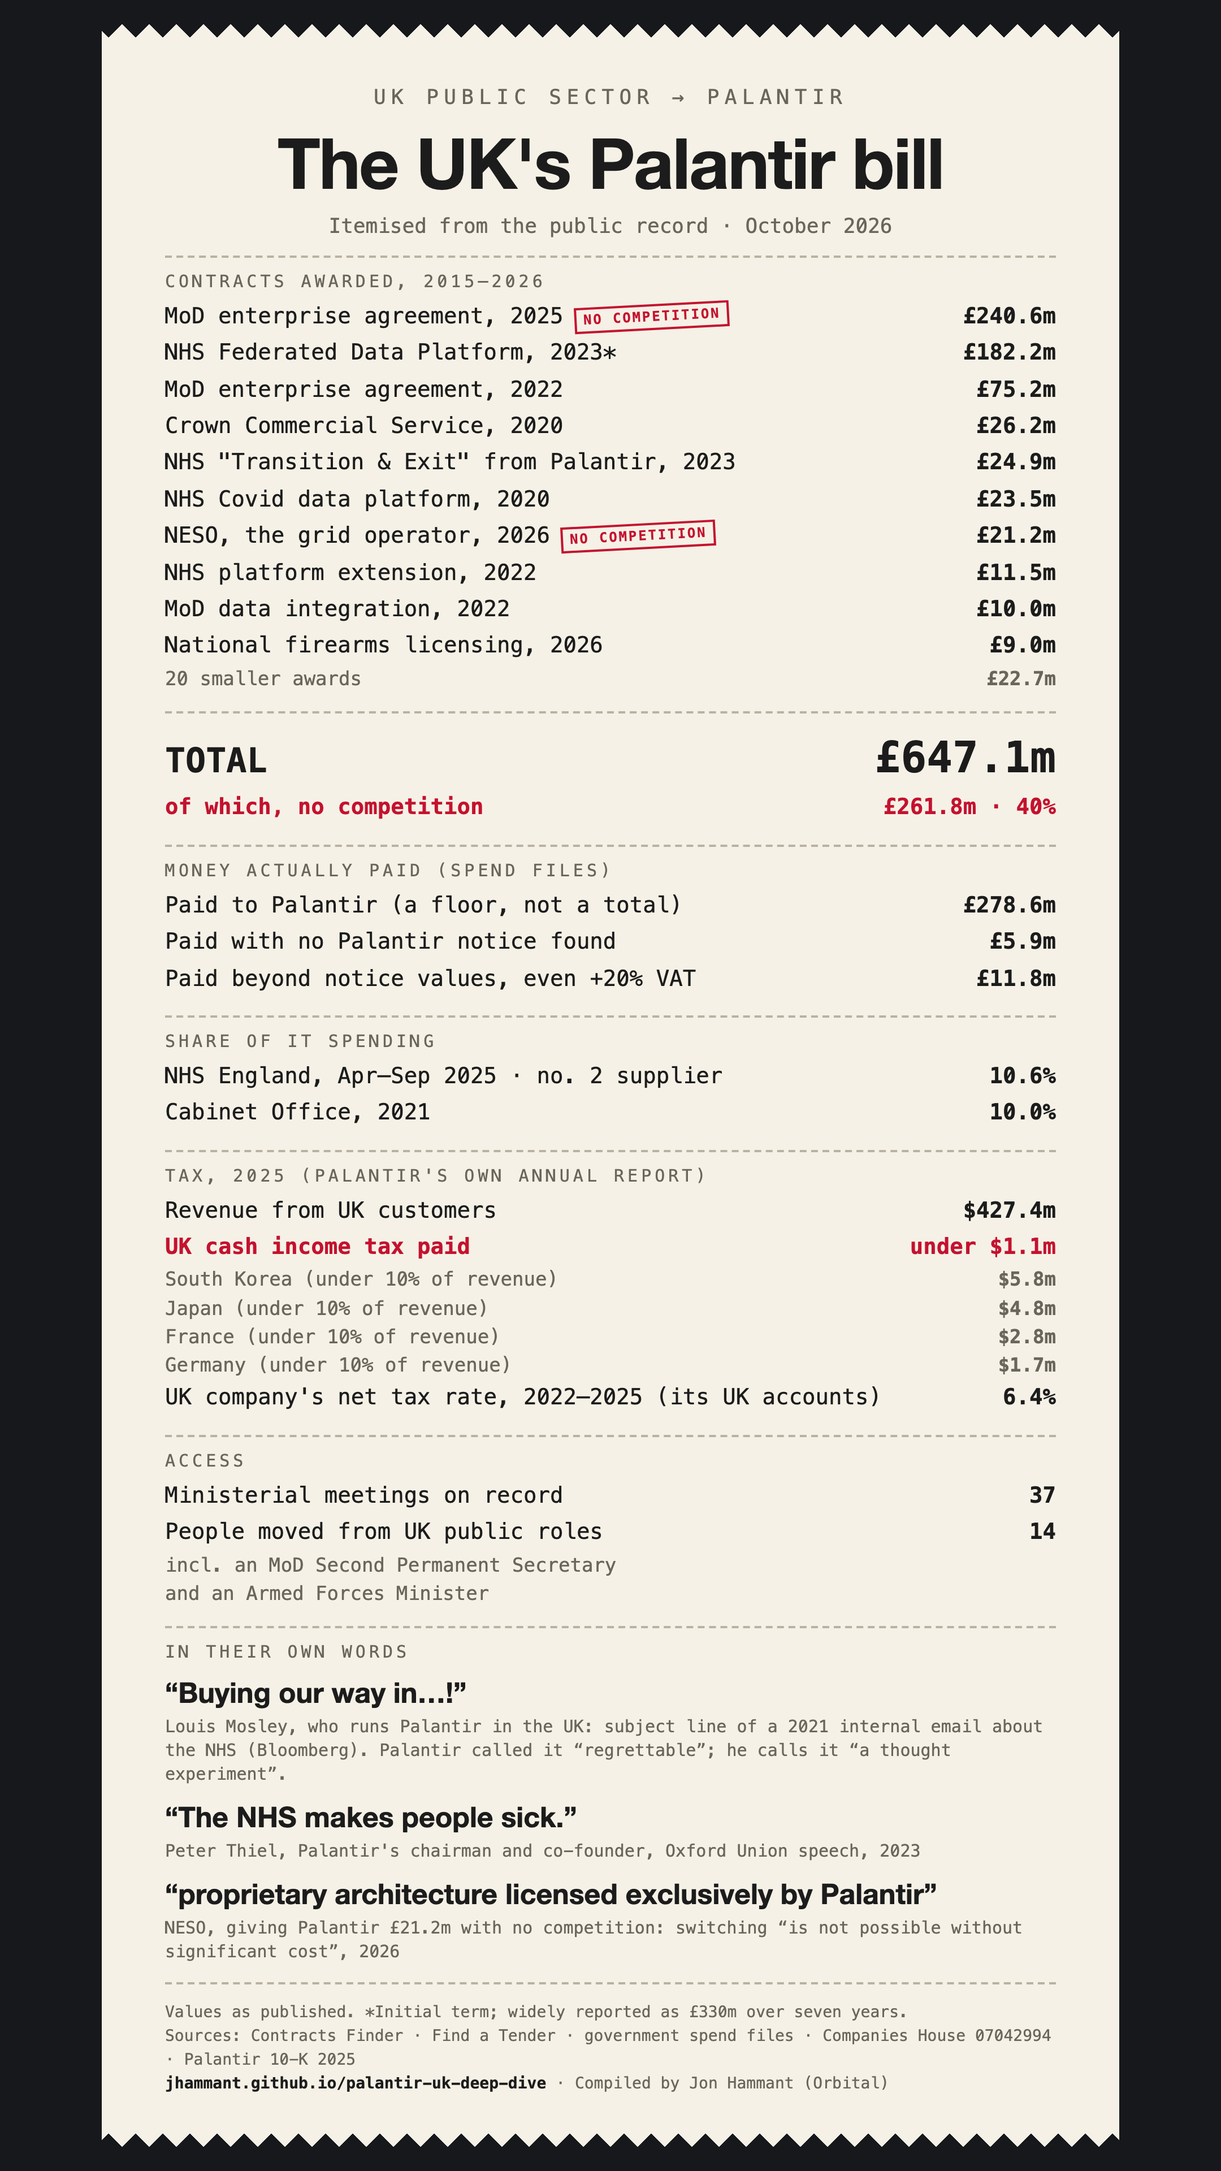
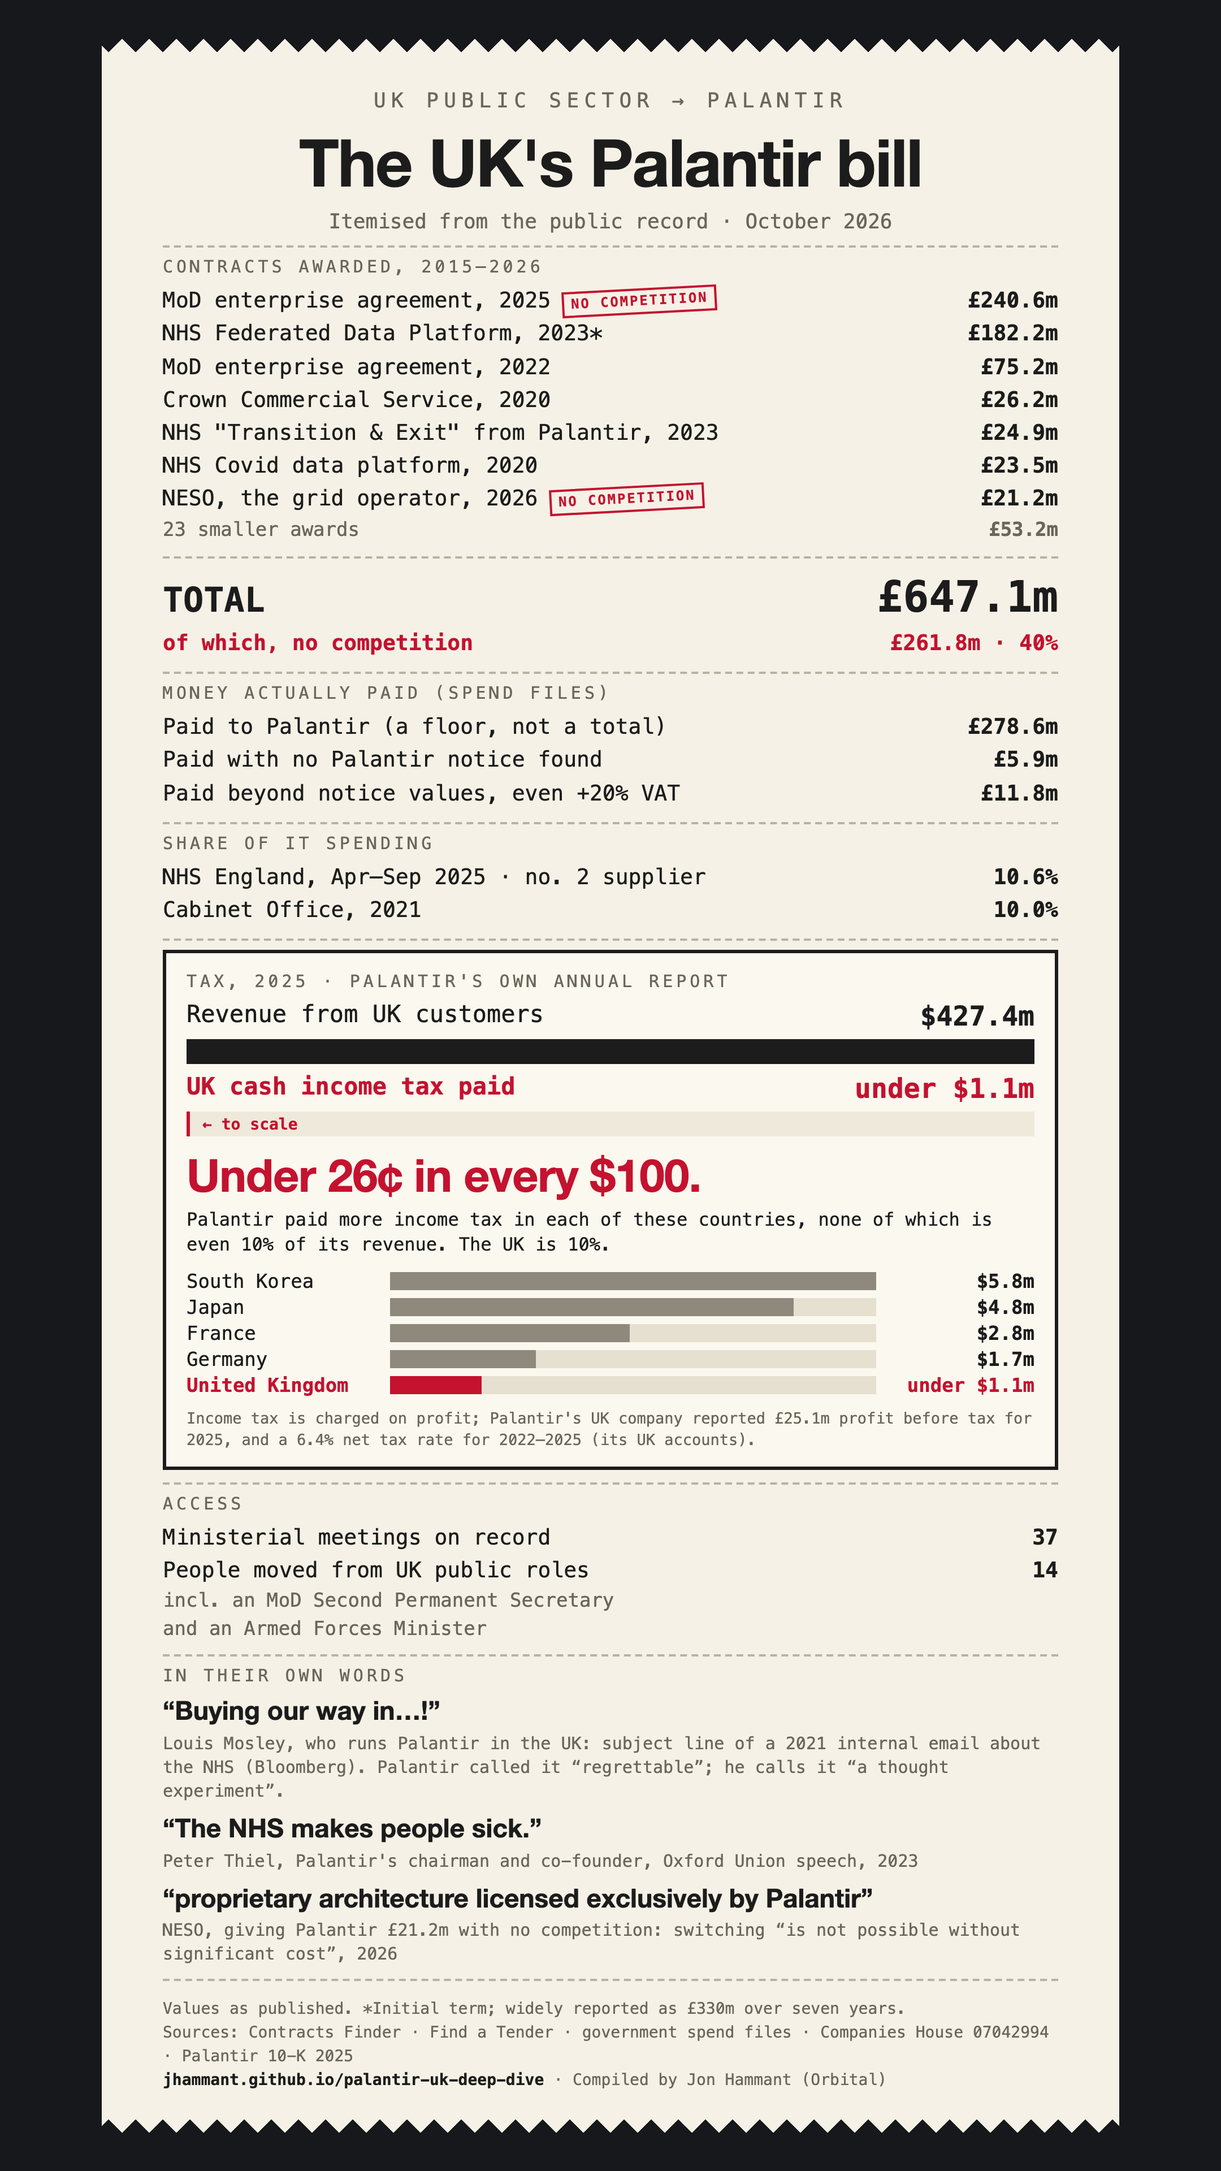
feat(img): show UK income tax against UK revenue to scale on the full receipt
Claude-Session: https://claude.ai/code/session_013hhDVR6watkhis7ndt2X1z

Changed region(s): [[0.0931, 0.0625, 0.9306, 1.0], [0.0931, 0.0, 0.9306, 0.0312]]

diff --git a/img/palantir-bill-full.html b/img/palantir-bill-full.html
@@ -3,24 +3,43 @@
 * { box-sizing:border-box; margin:0; padding:0; }
 html, body { width:1080px; height:1920px; }
 body { background:var(--bg); display:flex; align-items:center; justify-content:center; font-family:"SF Mono",Menlo,"DejaVu Sans Mono",monospace; color:var(--ink); }
-.receipt { width:900px; background:var(--paper); padding:54px 56px 46px; box-shadow:0 30px 80px rgba(0,0,0,.55);
+.receipt { width:900px; background:var(--paper); padding:44px 54px 36px; box-shadow:0 30px 80px rgba(0,0,0,.55);
   -webkit-mask: conic-gradient(from -45deg at bottom, #0000, #000 1deg 89deg, #0000 90deg) bottom/24px 51% repeat-x,
                 conic-gradient(from 135deg at top, #0000, #000 1deg 89deg, #0000 90deg) top/24px 51% repeat-x; }
 .head { text-align:center; }
 .eyebrow { font-size:18px; letter-spacing:.26em; color:var(--muted); }
-h1 { font-family:"Helvetica Neue",Helvetica,Arial,sans-serif; font-weight:800; font-size:62px; letter-spacing:-.02em; margin:10px 0 8px; }
+h1 { font-family:"Helvetica Neue",Helvetica,Arial,sans-serif; font-weight:800; font-size:58px; letter-spacing:-.02em; margin:8px 0 6px; }
 .sub { font-size:18px; color:var(--muted); }
-.rule { border-top:2px dashed var(--rule); margin:16px 0 12px; }
+.rule { border-top:2px dashed var(--rule); margin:11px 0 8px; }
 .section { font-size:15px; letter-spacing:.2em; color:var(--muted); margin:6px 0 6px; }
-.row { display:grid; grid-template-columns:1fr auto; gap:14px; font-size:19.5px; line-height:1.25; padding:4px 0; align-items:baseline; }
+.row { display:grid; grid-template-columns:1fr auto; gap:14px; font-size:19px; line-height:1.22; padding:3px 0; align-items:baseline; }
 .row .amt { font-weight:700; font-variant-numeric:tabular-nums; white-space:nowrap; }
 .row.small { color:var(--muted); font-size:17px; padding:2px 0; }
 .row.total { font-size:30px; font-weight:800; }
 .row.total .amt { font-size:38px; }
 .row.hitline .amt, .row.hitline .what { color:var(--red); font-weight:700; }
 .tag { display:inline-block; margin-left:10px; vertical-align:2px; border:2px solid var(--red); color:var(--red); font-size:12px; font-weight:800; letter-spacing:.12em; padding:2px 6px; transform:rotate(-3deg); }
-.q { margin:12px 0; }
-.qt { font-family:"Helvetica Neue",Helvetica,Arial,sans-serif; font-size:25px; font-weight:800; line-height:1.2; }
+.taxbox { border:3px solid var(--ink); padding:16px 18px 14px; margin:4px 0 6px; background:#fbf8ef; }
+.taxbox .section { margin-top:0; }
+.scale { display:grid; grid-template-columns:1fr auto; font-size:21px; margin-top:8px; }
+.scale .val { font-weight:800; font-size:24px; }
+.scale.hit .lbl, .scale.hit .val { color:var(--red); font-weight:800; }
+.bar { height:22px; background:#e6e0d1; margin:6px 0 2px; position:relative; }
+.bar span { display:block; height:100%; background:var(--ink); }
+.bar.tax { background:#efe9db; }
+.bar.tax span { background:var(--red); }
+.bar em { position:absolute; left:14px; top:0; font-style:normal; font-size:14px; color:var(--red); line-height:22px; font-weight:700; }
+.big { font-family:"Helvetica Neue",Helvetica,Arial,sans-serif; font-size:40px; font-weight:800; color:var(--red); margin:10px 0 2px; letter-spacing:-.01em; }
+.sub2 { font-size:16px; color:var(--ink); line-height:1.4; margin:4px 0 10px; }
+.cbar { display:grid; grid-template-columns:170px 1fr 130px; gap:10px; align-items:center; font-size:17px; margin:3px 0; }
+.cbar .ct { height:16px; background:#e6e0d1; }
+.cbar .cf { display:block; height:100%; background:#8f897d; }
+.cbar .cv { text-align:right; font-weight:700; }
+.cbar.uk .cn, .cbar.uk .cv { color:var(--red); font-weight:800; }
+.cbar.uk .cf { background:var(--red); }
+.fine { font-size:13.5px; color:var(--muted); line-height:1.4; margin-top:10px; }
+.q { margin:8px 0; }
+.qt { font-family:"Helvetica Neue",Helvetica,Arial,sans-serif; font-size:23px; font-weight:800; line-height:1.2; }
 .qw { font-size:15px; color:var(--muted); line-height:1.4; margin-top:5px; }
 .foot { font-size:14px; color:var(--muted); line-height:1.5; margin-top:14px; }
 .foot b { color:var(--ink); }
@@ -29,7 +48,7 @@ h1 { font-family:"Helvetica Neue",Helvetica,Arial,sans-serif; font-weight:800; f
 <div class="rule"></div>
 
     <div class="section">CONTRACTS AWARDED, 2015–2026</div>
-    <div class="row "><span class="what">MoD enterprise agreement, 2025<span class="tag">NO COMPETITION</span></span><span class="amt">£240.6m</span></div><div class="row "><span class="what">NHS Federated Data Platform, 2023*</span><span class="amt">£182.2m</span></div><div class="row "><span class="what">MoD enterprise agreement, 2022</span><span class="amt">£75.2m</span></div><div class="row "><span class="what">Crown Commercial Service, 2020</span><span class="amt">£26.2m</span></div><div class="row "><span class="what">NHS &quot;Transition &amp; Exit&quot; from Palantir, 2023</span><span class="amt">£24.9m</span></div><div class="row "><span class="what">NHS Covid data platform, 2020</span><span class="amt">£23.5m</span></div><div class="row "><span class="what">NESO, the grid operator, 2026<span class="tag">NO COMPETITION</span></span><span class="amt">£21.2m</span></div><div class="row "><span class="what">NHS platform extension, 2022</span><span class="amt">£11.5m</span></div><div class="row "><span class="what">MoD data integration, 2022</span><span class="amt">£10.0m</span></div><div class="row "><span class="what">National firearms licensing, 2026</span><span class="amt">£9.0m</span></div><div class="row small"><span class="what">20 smaller awards</span><span class="amt">£22.7m</span></div>
+    <div class="row "><span class="what">MoD enterprise agreement, 2025<span class="tag">NO COMPETITION</span></span><span class="amt">£240.6m</span></div><div class="row "><span class="what">NHS Federated Data Platform, 2023*</span><span class="amt">£182.2m</span></div><div class="row "><span class="what">MoD enterprise agreement, 2022</span><span class="amt">£75.2m</span></div><div class="row "><span class="what">Crown Commercial Service, 2020</span><span class="amt">£26.2m</span></div><div class="row "><span class="what">NHS &quot;Transition &amp; Exit&quot; from Palantir, 2023</span><span class="amt">£24.9m</span></div><div class="row "><span class="what">NHS Covid data platform, 2020</span><span class="amt">£23.5m</span></div><div class="row "><span class="what">NESO, the grid operator, 2026<span class="tag">NO COMPETITION</span></span><span class="amt">£21.2m</span></div><div class="row small"><span class="what">23 smaller awards</span><span class="amt">£53.2m</span></div>
     <div class="rule"></div>
     <div class="row total"><span class="what">TOTAL</span><span class="amt">£647.1m</span></div>
     <div class="row hitline"><span class="what">  of which, no competition</span><span class="amt">£261.8m · 40%</span></div>
@@ -43,11 +62,18 @@ h1 { font-family:"Helvetica Neue",Helvetica,Arial,sans-serif; font-weight:800; f
     <div class="row "><span class="what">NHS England, Apr–Sep 2025 · no. 2 supplier</span><span class="amt">10.6%</span></div>
     <div class="row "><span class="what">Cabinet Office, 2021</span><span class="amt">10.0%</span></div>
     <div class="rule"></div>
-    <div class="section">TAX, 2025 (PALANTIR'S OWN ANNUAL REPORT)</div>
-    <div class="row "><span class="what">Revenue from UK customers</span><span class="amt">$427.4m</span></div>
-    <div class="row hitline"><span class="what">UK cash income tax paid</span><span class="amt">under $1.1m</span></div>
-    <div class="row small"><span class="what">  South Korea (under 10% of revenue)</span><span class="amt">$5.8m</span></div><div class="row small"><span class="what">  Japan (under 10% of revenue)</span><span class="amt">$4.8m</span></div><div class="row small"><span class="what">  France (under 10% of revenue)</span><span class="amt">$2.8m</span></div><div class="row small"><span class="what">  Germany (under 10% of revenue)</span><span class="amt">$1.7m</span></div>
-    <div class="row "><span class="what">UK company&#x27;s net tax rate, 2022–2025 (its UK accounts)</span><span class="amt">6.4%</span></div>
+    
+    <div class="taxbox">
+      <div class="section">TAX, 2025 · PALANTIR'S OWN ANNUAL REPORT</div>
+      <div class="scale"><span class="lbl">Revenue from UK customers</span><span class="val">$427.4m</span></div>
+      <div class="bar"><span style="width:100%"></span></div>
+      <div class="scale hit"><span class="lbl">UK cash income tax paid</span><span class="val">under $1.1m</span></div>
+      <div class="bar tax"><span style="width:0.40%"></span><em>← to scale</em></div>
+      <div class="big">Under 26¢ in every $100.</div>
+      <div class="sub2">Palantir paid more income tax in each of these countries, none of which is even 10% of its revenue. The UK is 10%.</div>
+      <div class="cbar"><span class="cn">South Korea</span><span class="ct"><span class="cf" style="width:100.0%"></span></span><span class="cv">$5.8m</span></div><div class="cbar"><span class="cn">Japan</span><span class="ct"><span class="cf" style="width:83.1%"></span></span><span class="cv">$4.8m</span></div><div class="cbar"><span class="cn">France</span><span class="ct"><span class="cf" style="width:49.3%"></span></span><span class="cv">$2.8m</span></div><div class="cbar"><span class="cn">Germany</span><span class="ct"><span class="cf" style="width:29.9%"></span></span><span class="cv">$1.7m</span></div><div class="cbar uk"><span class="cn">United Kingdom</span><span class="ct"><span class="cf" style="width:18.8%"></span></span><span class="cv">under $1.1m</span></div>
+      <div class="fine">Income tax is charged on profit; Palantir's UK company reported £25.1m profit before tax for 2025, and a 6.4% net tax rate for 2022–2025 (its UK accounts).</div>
+    </div>
     <div class="rule"></div>
     <div class="section">ACCESS</div>
     <div class="row "><span class="what">Ministerial meetings on record</span><span class="amt">37</span></div>

diff --git a/scripts/make_receipt_image.py b/scripts/make_receipt_image.py
@@ -21,9 +21,6 @@ LINES = [  # (match on title, buyer pattern, label) for the itemised awards, big
     (r"Transition & Exit", r"NHS England", 'NHS "Transition & Exit" from Palantir, 2023'),
     (r"National Health Service Commissioning Board", r"ARDEN", "NHS Covid data platform, 2020"),
     (r"NESO Interim Capability", r"ENERGY SYSTEM", "NESO, the grid operator, 2026"),
-    (r"Contract Extension of the Data Platform", r"NHS England", "NHS platform extension, 2022"),
-    (r"703156450", r"Defence", "MoD data integration, 2022"),
-    (r"Firearms Licensing", r"POLICE DIGITAL", "National firearms licensing, 2026"),
 ]
 
 
@@ -78,6 +75,29 @@ def build(d):
     recent = [t for t in tax if t["year_end"][:4] >= "2022"]
     rate = 100 * sum(t["tax_charge_total_gbp"] or 0 for t in recent) / sum(t["profit_before_tax_gbp"] or 0 for t in recent)
 
+    # The tax box: everything to scale, so the gap is visible at a glance.
+    import math
+    cents = math.ceil(10000 * uk_cash / uk_rev)  # cents of income tax per $100 of UK revenue; rounded up, since uk_cash is an upper bound
+    pbt = tax[-1]["profit_before_tax_gbp"]
+    mx = max(v for _, v in others if v)
+    bars = "".join(
+        f'<div class="cbar"><span class="cn">{e(j)}</span><span class="ct"><span class="cf" style="width:{100 * v / mx:.1f}%"></span></span><span class="cv">{usd(v)}</span></div>'
+        for j, v in others if v)
+    bars += (f'<div class="cbar uk"><span class="cn">United Kingdom</span><span class="ct"><span class="cf" style="width:{100 * uk_cash / mx:.1f}%"></span></span>'
+             f'<span class="cv">under {usd(uk_cash)}</span></div>')
+    tax_box = f"""
+    <div class="taxbox">
+      <div class="section">TAX, 2025 · PALANTIR'S OWN ANNUAL REPORT</div>
+      <div class="scale"><span class="lbl">Revenue from UK customers</span><span class="val">{usd(uk_rev)}</span></div>
+      <div class="bar"><span style="width:100%"></span></div>
+      <div class="scale hit"><span class="lbl">UK cash income tax paid</span><span class="val">under {usd(uk_cash)}</span></div>
+      <div class="bar tax"><span style="width:{max(0.4, 100 * uk_cash / uk_rev):.2f}%"></span><em>← to scale</em></div>
+      <div class="big">Under {cents}¢ in every $100.</div>
+      <div class="sub2">Palantir paid more income tax in each of these countries, none of which is even 10% of its revenue. The UK is 10%.</div>
+      {bars}
+      <div class="fine">Income tax is charged on profit; Palantir's UK company reported {money(pbt)} profit before tax for {tax[-1]['year_end'][:4]}, and a {rate:.1f}% net tax rate for 2022–{tax[-1]['year_end'][:4]} (its UK accounts).</div>
+    </div>"""
+
     def line(label, amount, stamp=False, cls=""):
         st = '<span class="tag">NO COMPETITION</span>' if stamp else ""
         return f'<div class="row {cls}"><span class="what">{e(label)}{st}</span><span class="amt">{amount}</span></div>'
@@ -100,11 +120,7 @@ def build(d):
     {line(f"NHS England, Apr–Sep 2025 · no. {nhs_rank} supplier" if nhs_rank else "NHS England, Apr–Sep 2025", f'{100 * num(nhs["palantir_share_of_it"]):.1f}%') if nhs else ""}
     {line("Cabinet Office, 2021", f'{100 * num(co["palantir_share_of_it"]):.1f}%') if co else ""}
     <div class="rule"></div>
-    <div class="section">TAX, 2025 (PALANTIR'S OWN ANNUAL REPORT)</div>
-    {line("Revenue from UK customers", usd(uk_rev))}
-    {line("UK cash income tax paid", f"under {usd(uk_cash)}", cls="hitline")}
-    {"".join(line(f"  {j} (under 10% of revenue)", usd(v), cls="small") for j, v in others if v)}
-    {line(f"UK company's net tax rate, 2022–{tax[-1]['year_end'][:4]} (its UK accounts)", f"{rate:.1f}%")}
+    {tax_box}
     <div class="rule"></div>
     <div class="section">ACCESS</div>
     {line("Ministerial meetings on record", mins.group(1) if mins else "n/a")}
@@ -123,24 +139,43 @@ def build(d):
 * {{ box-sizing:border-box; margin:0; padding:0; }}
 html, body {{ width:1080px; height:1920px; }}
 body {{ background:var(--bg); display:flex; align-items:center; justify-content:center; font-family:"SF Mono",Menlo,"DejaVu Sans Mono",monospace; color:var(--ink); }}
-.receipt {{ width:900px; background:var(--paper); padding:54px 56px 46px; box-shadow:0 30px 80px rgba(0,0,0,.55);
+.receipt {{ width:900px; background:var(--paper); padding:44px 54px 36px; box-shadow:0 30px 80px rgba(0,0,0,.55);
   -webkit-mask: conic-gradient(from -45deg at bottom, #0000, #000 1deg 89deg, #0000 90deg) bottom/24px 51% repeat-x,
                 conic-gradient(from 135deg at top, #0000, #000 1deg 89deg, #0000 90deg) top/24px 51% repeat-x; }}
 .head {{ text-align:center; }}
 .eyebrow {{ font-size:18px; letter-spacing:.26em; color:var(--muted); }}
-h1 {{ font-family:"Helvetica Neue",Helvetica,Arial,sans-serif; font-weight:800; font-size:62px; letter-spacing:-.02em; margin:10px 0 8px; }}
+h1 {{ font-family:"Helvetica Neue",Helvetica,Arial,sans-serif; font-weight:800; font-size:58px; letter-spacing:-.02em; margin:8px 0 6px; }}
 .sub {{ font-size:18px; color:var(--muted); }}
-.rule {{ border-top:2px dashed var(--rule); margin:16px 0 12px; }}
+.rule {{ border-top:2px dashed var(--rule); margin:11px 0 8px; }}
 .section {{ font-size:15px; letter-spacing:.2em; color:var(--muted); margin:6px 0 6px; }}
-.row {{ display:grid; grid-template-columns:1fr auto; gap:14px; font-size:19.5px; line-height:1.25; padding:4px 0; align-items:baseline; }}
+.row {{ display:grid; grid-template-columns:1fr auto; gap:14px; font-size:19px; line-height:1.22; padding:3px 0; align-items:baseline; }}
 .row .amt {{ font-weight:700; font-variant-numeric:tabular-nums; white-space:nowrap; }}
 .row.small {{ color:var(--muted); font-size:17px; padding:2px 0; }}
 .row.total {{ font-size:30px; font-weight:800; }}
 .row.total .amt {{ font-size:38px; }}
 .row.hitline .amt, .row.hitline .what {{ color:var(--red); font-weight:700; }}
 .tag {{ display:inline-block; margin-left:10px; vertical-align:2px; border:2px solid var(--red); color:var(--red); font-size:12px; font-weight:800; letter-spacing:.12em; padding:2px 6px; transform:rotate(-3deg); }}
-.q {{ margin:12px 0; }}
-.qt {{ font-family:"Helvetica Neue",Helvetica,Arial,sans-serif; font-size:25px; font-weight:800; line-height:1.2; }}
+.taxbox {{ border:3px solid var(--ink); padding:16px 18px 14px; margin:4px 0 6px; background:#fbf8ef; }}
+.taxbox .section {{ margin-top:0; }}
+.scale {{ display:grid; grid-template-columns:1fr auto; font-size:21px; margin-top:8px; }}
+.scale .val {{ font-weight:800; font-size:24px; }}
+.scale.hit .lbl, .scale.hit .val {{ color:var(--red); font-weight:800; }}
+.bar {{ height:22px; background:#e6e0d1; margin:6px 0 2px; position:relative; }}
+.bar span {{ display:block; height:100%; background:var(--ink); }}
+.bar.tax {{ background:#efe9db; }}
+.bar.tax span {{ background:var(--red); }}
+.bar em {{ position:absolute; left:14px; top:0; font-style:normal; font-size:14px; color:var(--red); line-height:22px; font-weight:700; }}
+.big {{ font-family:"Helvetica Neue",Helvetica,Arial,sans-serif; font-size:40px; font-weight:800; color:var(--red); margin:10px 0 2px; letter-spacing:-.01em; }}
+.sub2 {{ font-size:16px; color:var(--ink); line-height:1.4; margin:4px 0 10px; }}
+.cbar {{ display:grid; grid-template-columns:170px 1fr 130px; gap:10px; align-items:center; font-size:17px; margin:3px 0; }}
+.cbar .ct {{ height:16px; background:#e6e0d1; }}
+.cbar .cf {{ display:block; height:100%; background:#8f897d; }}
+.cbar .cv {{ text-align:right; font-weight:700; }}
+.cbar.uk .cn, .cbar.uk .cv {{ color:var(--red); font-weight:800; }}
+.cbar.uk .cf {{ background:var(--red); }}
+.fine {{ font-size:13.5px; color:var(--muted); line-height:1.4; margin-top:10px; }}
+.q {{ margin:8px 0; }}
+.qt {{ font-family:"Helvetica Neue",Helvetica,Arial,sans-serif; font-size:23px; font-weight:800; line-height:1.2; }}
 .qw {{ font-size:15px; color:var(--muted); line-height:1.4; margin-top:5px; }}
 .foot {{ font-size:14px; color:var(--muted); line-height:1.5; margin-top:14px; }}
 .foot b {{ color:var(--ink); }}
